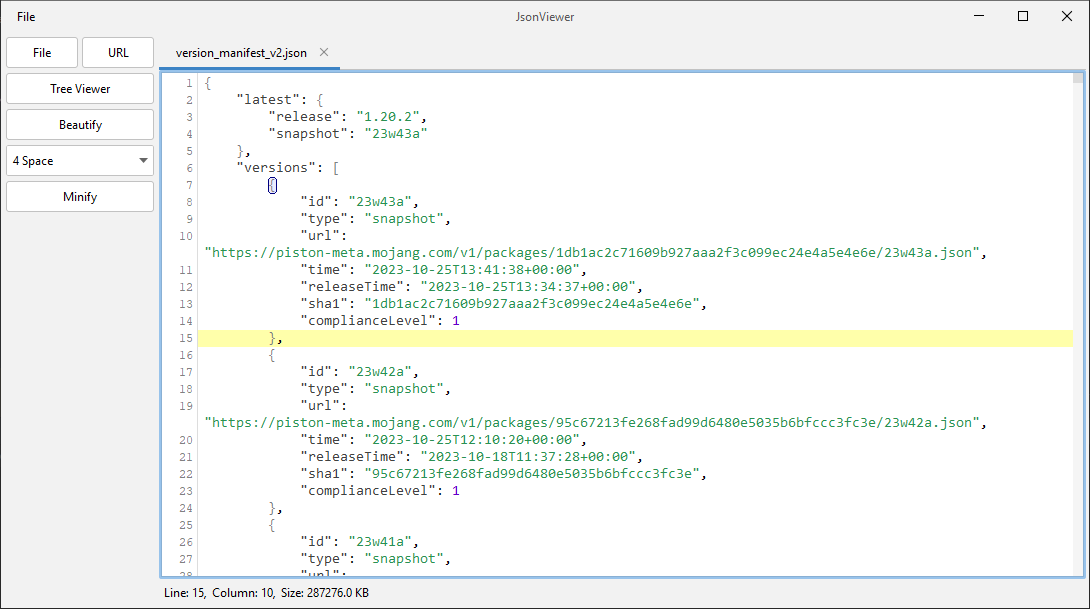
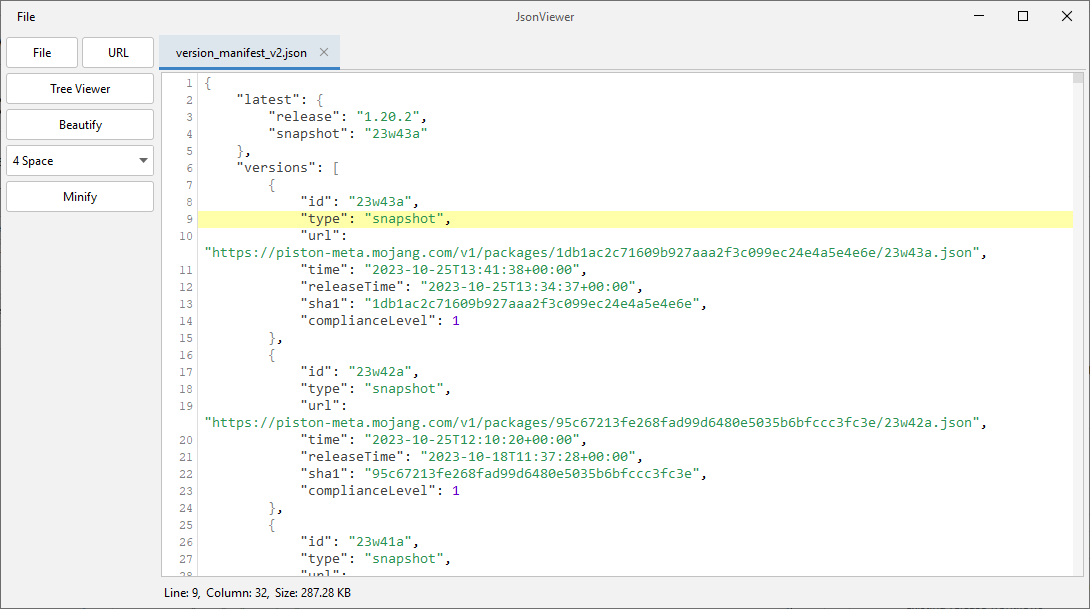
Updated Screenshot.png, fixed rounding size

Changed region(s): [[0.0, 0.0, 1.0, 1.0]]

diff --git a/src/main/java/me/theentropyshard/jsonviewer/gui/Gui.java b/src/main/java/me/theentropyshard/jsonviewer/gui/Gui.java
@@ -157,15 +157,20 @@ public class Gui {
                 case "beautify":
                     view.switchToTextView();
                     String beautyText = JsonFormatter.formatJson(text, comp.getSelectedIndex() + 1);
+
+                    if (beautyText == null) {
+                        return;
+                    }
+
                     int textSize = beautyText.getBytes(StandardCharsets.UTF_8).length;
-                    view.setSizeInKBs(Utils.round(textSize, 2));
+                    view.setSizeInKBs(Utils.round(textSize / 1000.0, 2));
                     view.setText(beautyText);
                     break;
                 case "minify":
                     view.switchToTextView();
                     String minifiedText = JsonFormatter.minifyJson(text);
                     int size = minifiedText.getBytes(StandardCharsets.UTF_8).length;
-                    view.setSizeInKBs(Utils.round(size, 2));
+                    view.setSizeInKBs(Utils.round(size / 1000.0, 2));
                     view.setText(minifiedText);
                     break;
                 case "treeview":
@@ -205,7 +210,7 @@ public class Gui {
                             String fileText = Utils.readFile(selectedFile);
 
                             int tSize = fileText.getBytes(StandardCharsets.UTF_8).length;
-                            view.setSizeInKBs(Utils.round(tSize, 2));
+                            view.setSizeInKBs(Utils.round(tSize / 1000.0, 2));
 
                             view.setText(fileText);
                             this.names.get(view).setText(selectedFile.getName());
@@ -232,7 +237,7 @@ public class Gui {
                             String urlText = Utils.readURL(input);
 
                             int tSize = urlText.getBytes(StandardCharsets.UTF_8).length;
-                            view.setSizeInKBs(Utils.round(tSize, 2));
+                            view.setSizeInKBs(Utils.round(tSize / 1000.0, 2));
 
                             view.setText(urlText);
                             this.names.get(view).setText(Utils.getLastPathComponent(input));
